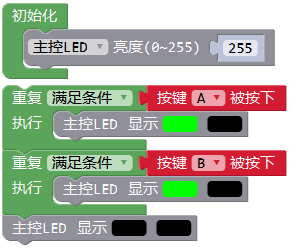
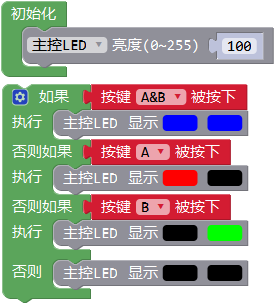
1

diff --git a/MoonBot/MoonBot_Hardware/MoonBot_Hardware_controller.md b/MoonBot/MoonBot_Hardware/MoonBot_Hardware_controller.md
@@ -24,9 +24,11 @@
 
 ### 主控LED和按键示例
 
-程序介绍：该程序是通过主控模块板载的2个可编程按键控制板载的2个RGB彩灯。
+按键和LED灯是最基础的输入和输出设备，可以用于其他设备的功能调试。首先介绍这两项，之后的调试会更方便。
 
-循环检测按键A和按键B的状态，当A被按下时LED1亮红色，当按键B被按下时LED2亮绿色，之后关闭LED。
+程序介绍：通过主控模块板载的2个可编程按键控制板载的2个RGB彩灯。
+
+循环检测按键A和按键B的状态，当A被按下时LED1亮红色，当按键B被按下时LED2亮绿色，同时按下则都亮蓝色，无按键按下时关闭LED。
 
 ![](./images/Mixly_example_controller_LEDbutton.png)
 
